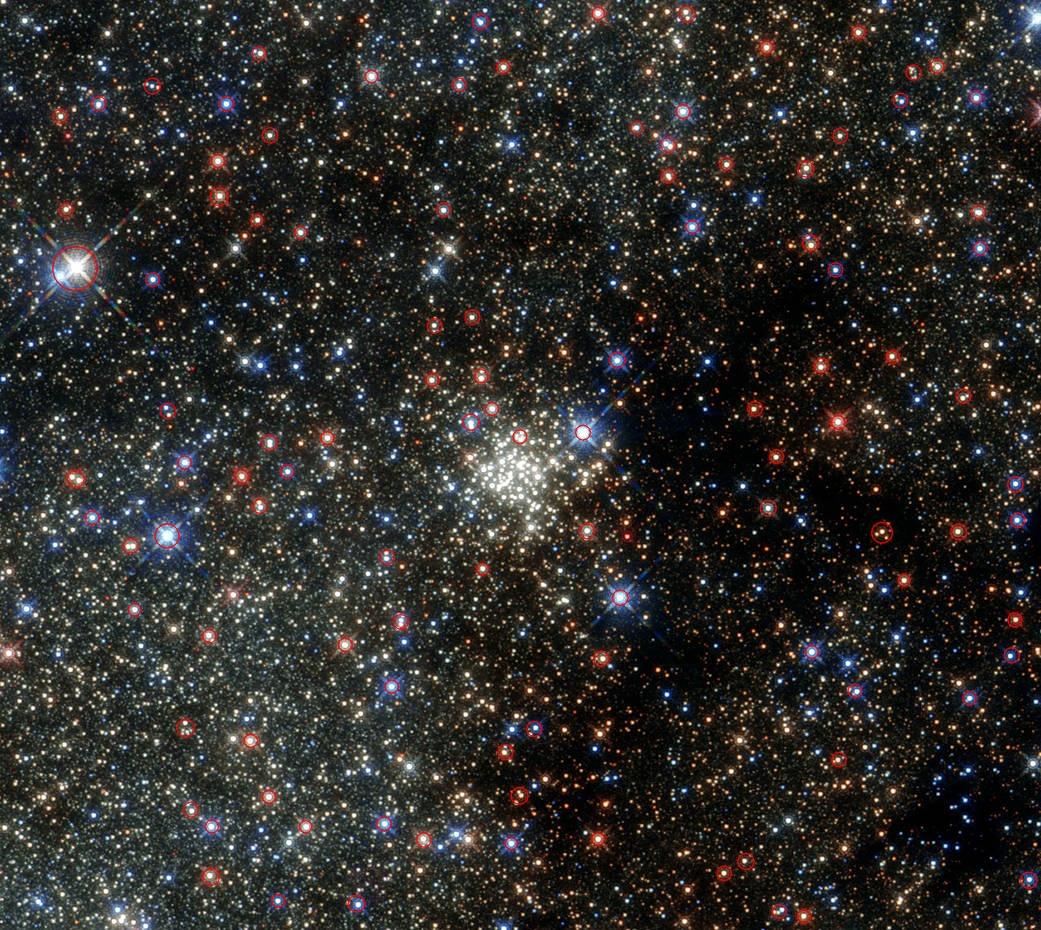
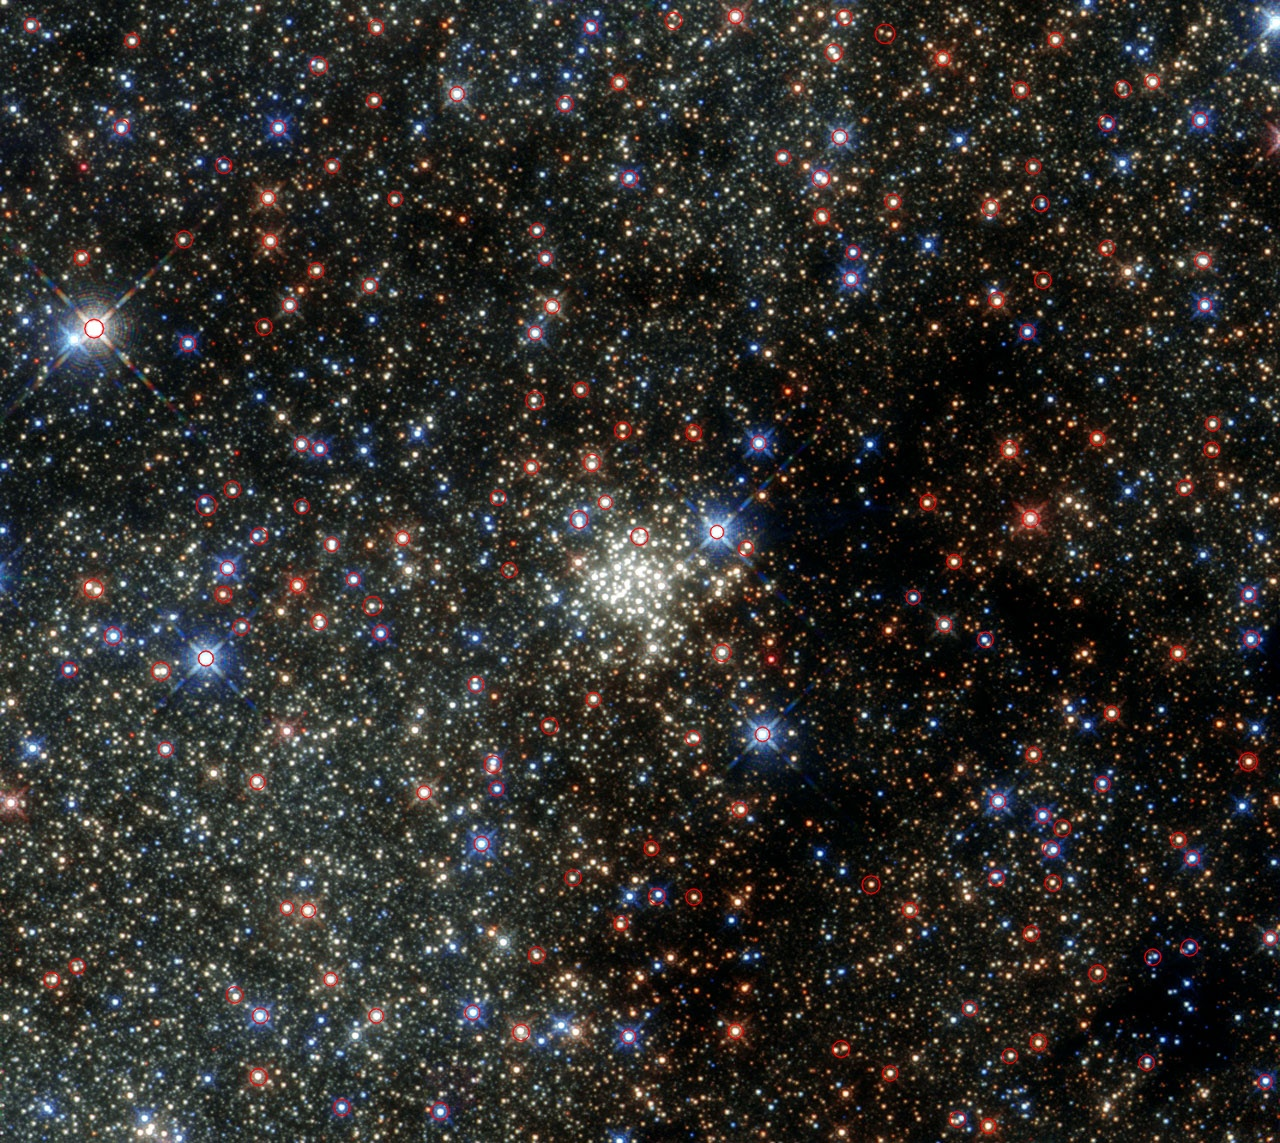
Now sending things to front end

diff --git a/Python/BlobDetection/NodeDefiner.py b/Python/BlobDetection/NodeDefiner.py
@@ -6,43 +6,46 @@ class StarDetector(object):
     def __init__(self, address="Hubble_Pics/01_veritable mix of different galaxies.jpg"):
 
         # Read image
-        image = cv2.imread(address, cv2.IMREAD_GRAYSCALE)
+        self.im = cv2.imread(address, cv2.IMREAD_GRAYSCALE)
+        #im2 = cv2.imread(address)
         # Filter Noise
-        im = cv2.medianBlur(image, 9)
+        self.im = cv2.medianBlur(self.im, 9)
 
         # Invert image
-        im = cv2.bitwise_not(im)
+        self.im = cv2.bitwise_not(self.im)
 
         # Set parameters for detection
-        params = cv2.SimpleBlobDetector_Params()
+        self.params = cv2.SimpleBlobDetector_Params()
 
         # grayscale values
-        params.minThreshold = 20
-        params.maxThreshold = 255
+        self.params.minThreshold = 20
+        self.params.maxThreshold = 255
 
         # exclude alongated circles aka galaxies
         # params.filterByInertia = True
         # params.minInertiaRatio = 0.6
 
         # Set up minimum area threshold.
-        params.filterByArea = True
-        params.minArea = 1000
+        self.params.filterByArea = True
+        self.params.minArea = 100
 
         # Set up the detector with default parameters.
         # detector = cv2.SimpleBlobDetector_create()
 
         # Set up the detector with parameters.
         # Detect blobs.
-        detector = cv2.SimpleBlobDetector_create(params)
-        keypoints = detector.detect(im)
+        self.detector = cv2.SimpleBlobDetector_create(self.params)
+    def calculate(self):
+
+        keypoints = self.detector.detect(self.im)
 
         starsize = []
         for elements in keypoints:
             starsize.append(elements.size)
         starsize.sort(reverse=True)
-        print(starsize)
+        #print(starsize)
         tenBiggest = []
-        for i in range(15):
+        for i in range(45):
             for j in range(len(keypoints)):
                 if starsize[i] == keypoints[j].size:
                     tenBiggest.append(keypoints[j])
@@ -56,5 +59,6 @@ class StarDetector(object):
         # cv2.imshow("Keypoints", im_with_keypoints)
         # cv2.imwrite("img.jpg",im_with_keypoints)
         #cv2.waitKey(0)
+        #return keypoints
         return tenBiggest
 

diff --git a/Python/BlobDetection/ConvertToJSON.py b/Python/BlobDetection/ConvertToJSON.py
@@ -1,53 +1,19 @@
 import cv2
 import numpy as np
 import json
-from NodeDefiner import Stardetector
-class Response{
-	Integer systemId
-	Blob base64
-	String systemInfo
-	List<Node>
-	List<Destination> destinations
-}
+from NodeDefiner import StarDetector
 
 class Node:
-    def __init__():
-        coord = Stardetector()
-        coordinatesX = []
-        coordinatesY = []
-        for i in range(len(Stardetector)):
-            coordinatesX.append(coord[i].pt(0))
-            coordinatesY.append(coord[i].pt(1))
-    	String name
-    	String info
-    	List<Action> actions
-    pass
 
-class Action{
-	String name
-	List<Cost> costs
-	List<Benefit> benefits
-	List<Artifact> artifacts
+    coord = StarDetector().calculate()
+    output = []
+    for i in coord:
 
-}
+        output.append({'x': i.pt[0], 'y': i.pt[1], 'size': i.size})
 
-class Cost{
-	String type
-	Decimal value
-}
+    with open('test_json.json', 'w') as write_file:
+        json.dump(output, write_file)
 
-class Benefit{
-	String type
-	Decimal value
-}
 
-class Artifact{
-	String name
-	Decimal probability
-}
+pass
 
-class Destination{
-	Integer systemId
-	String direction
-	List<Cost> costs
-}
